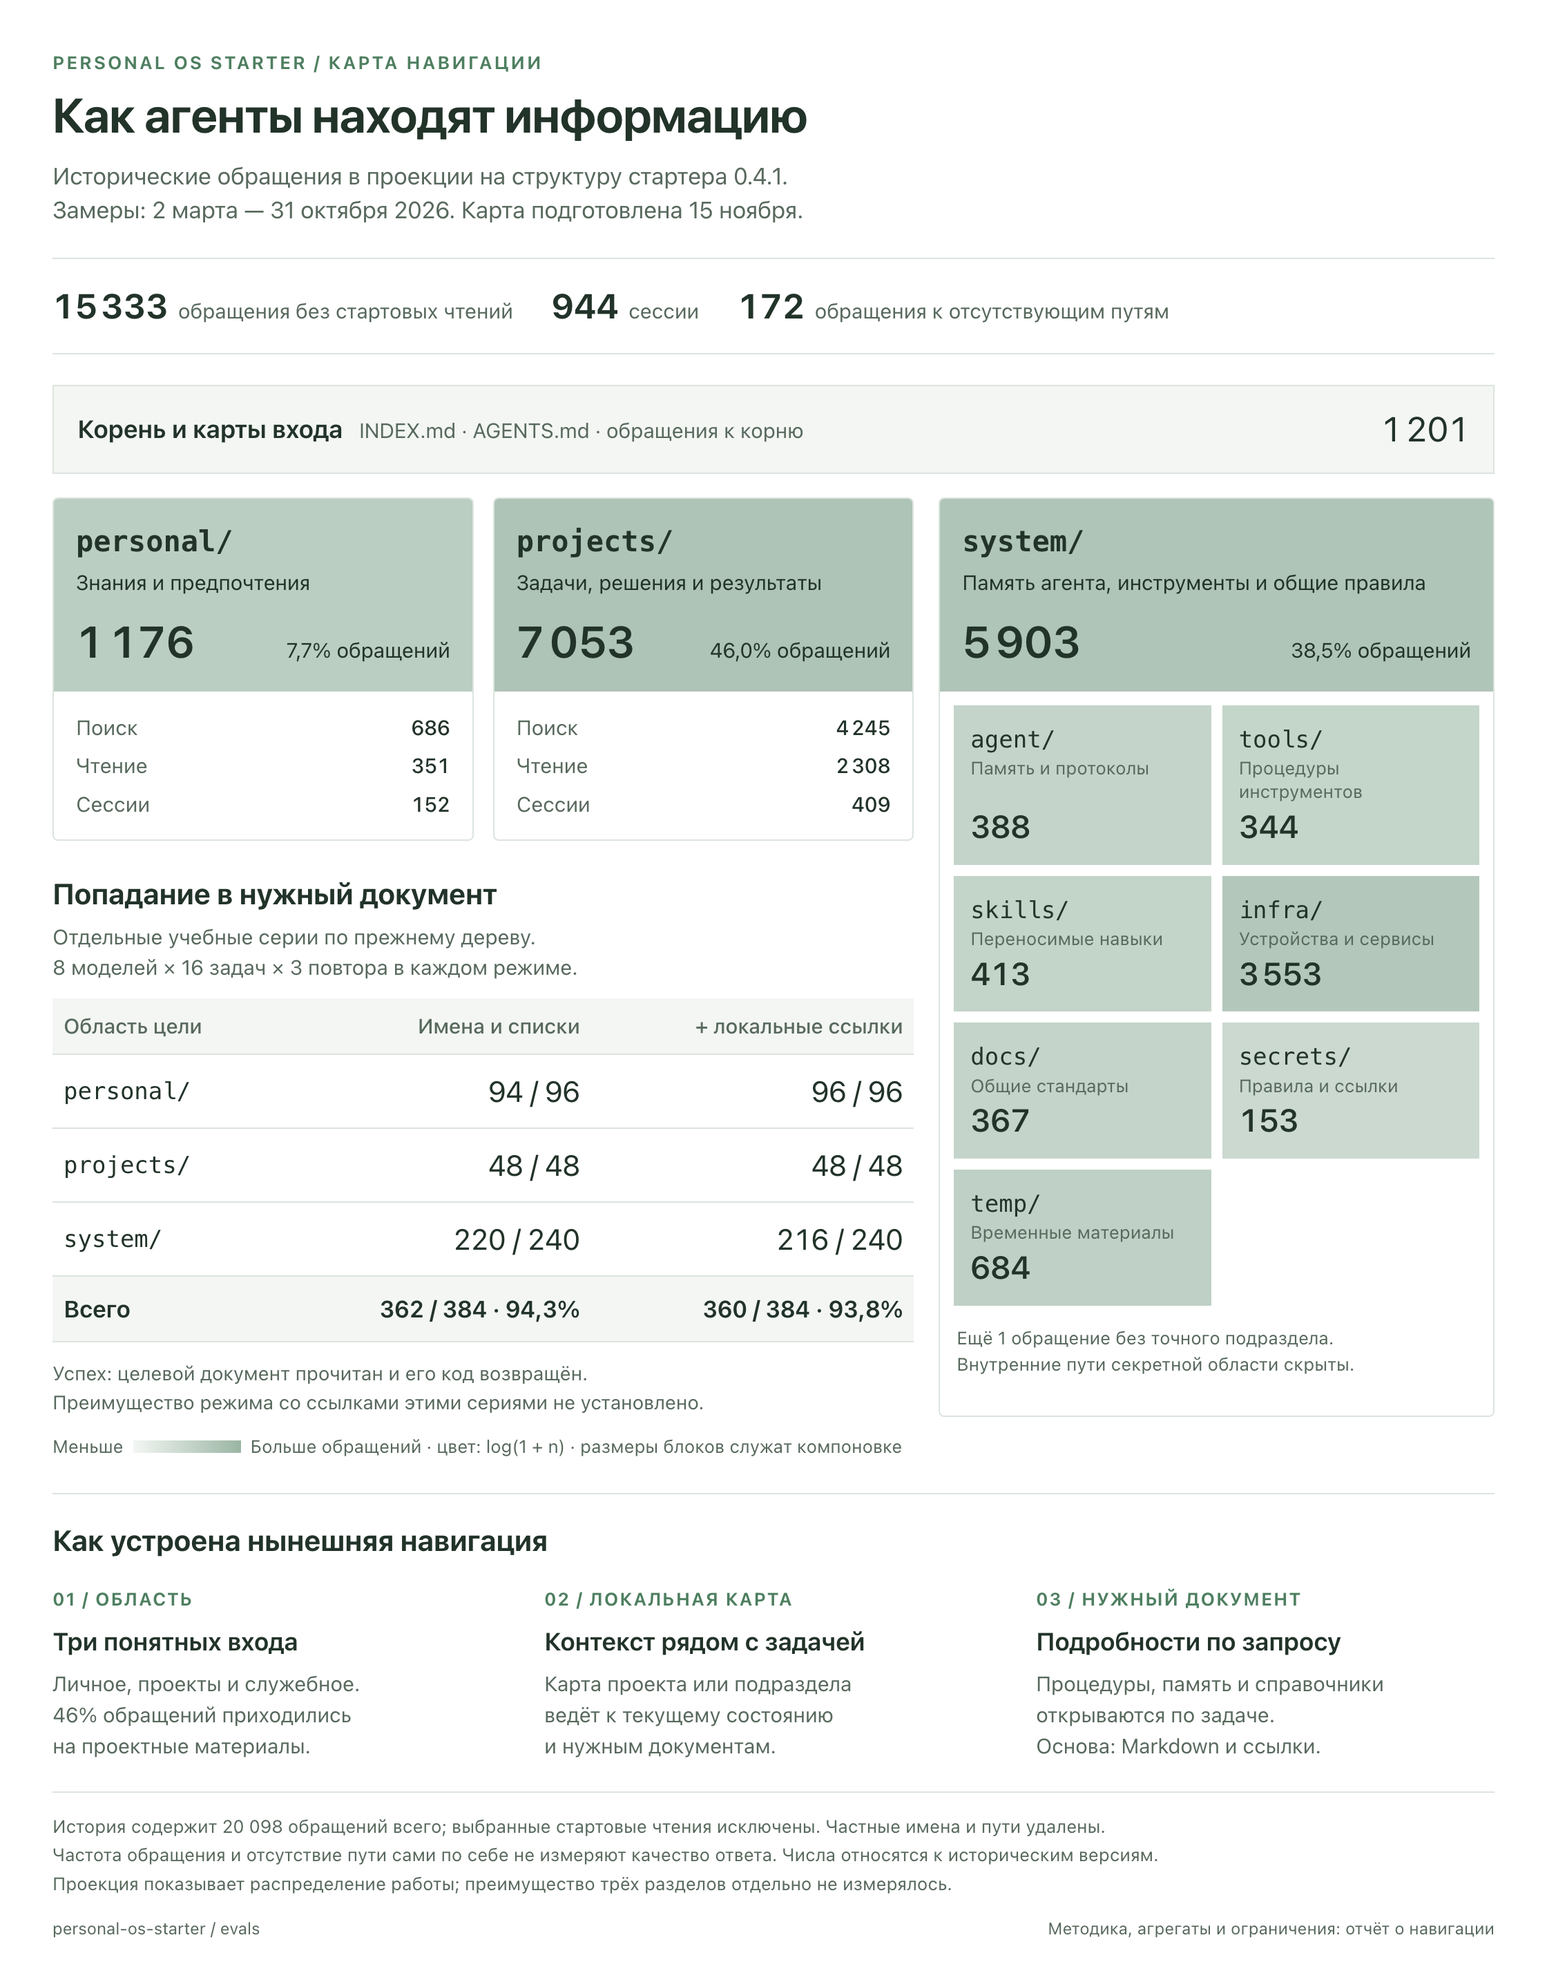
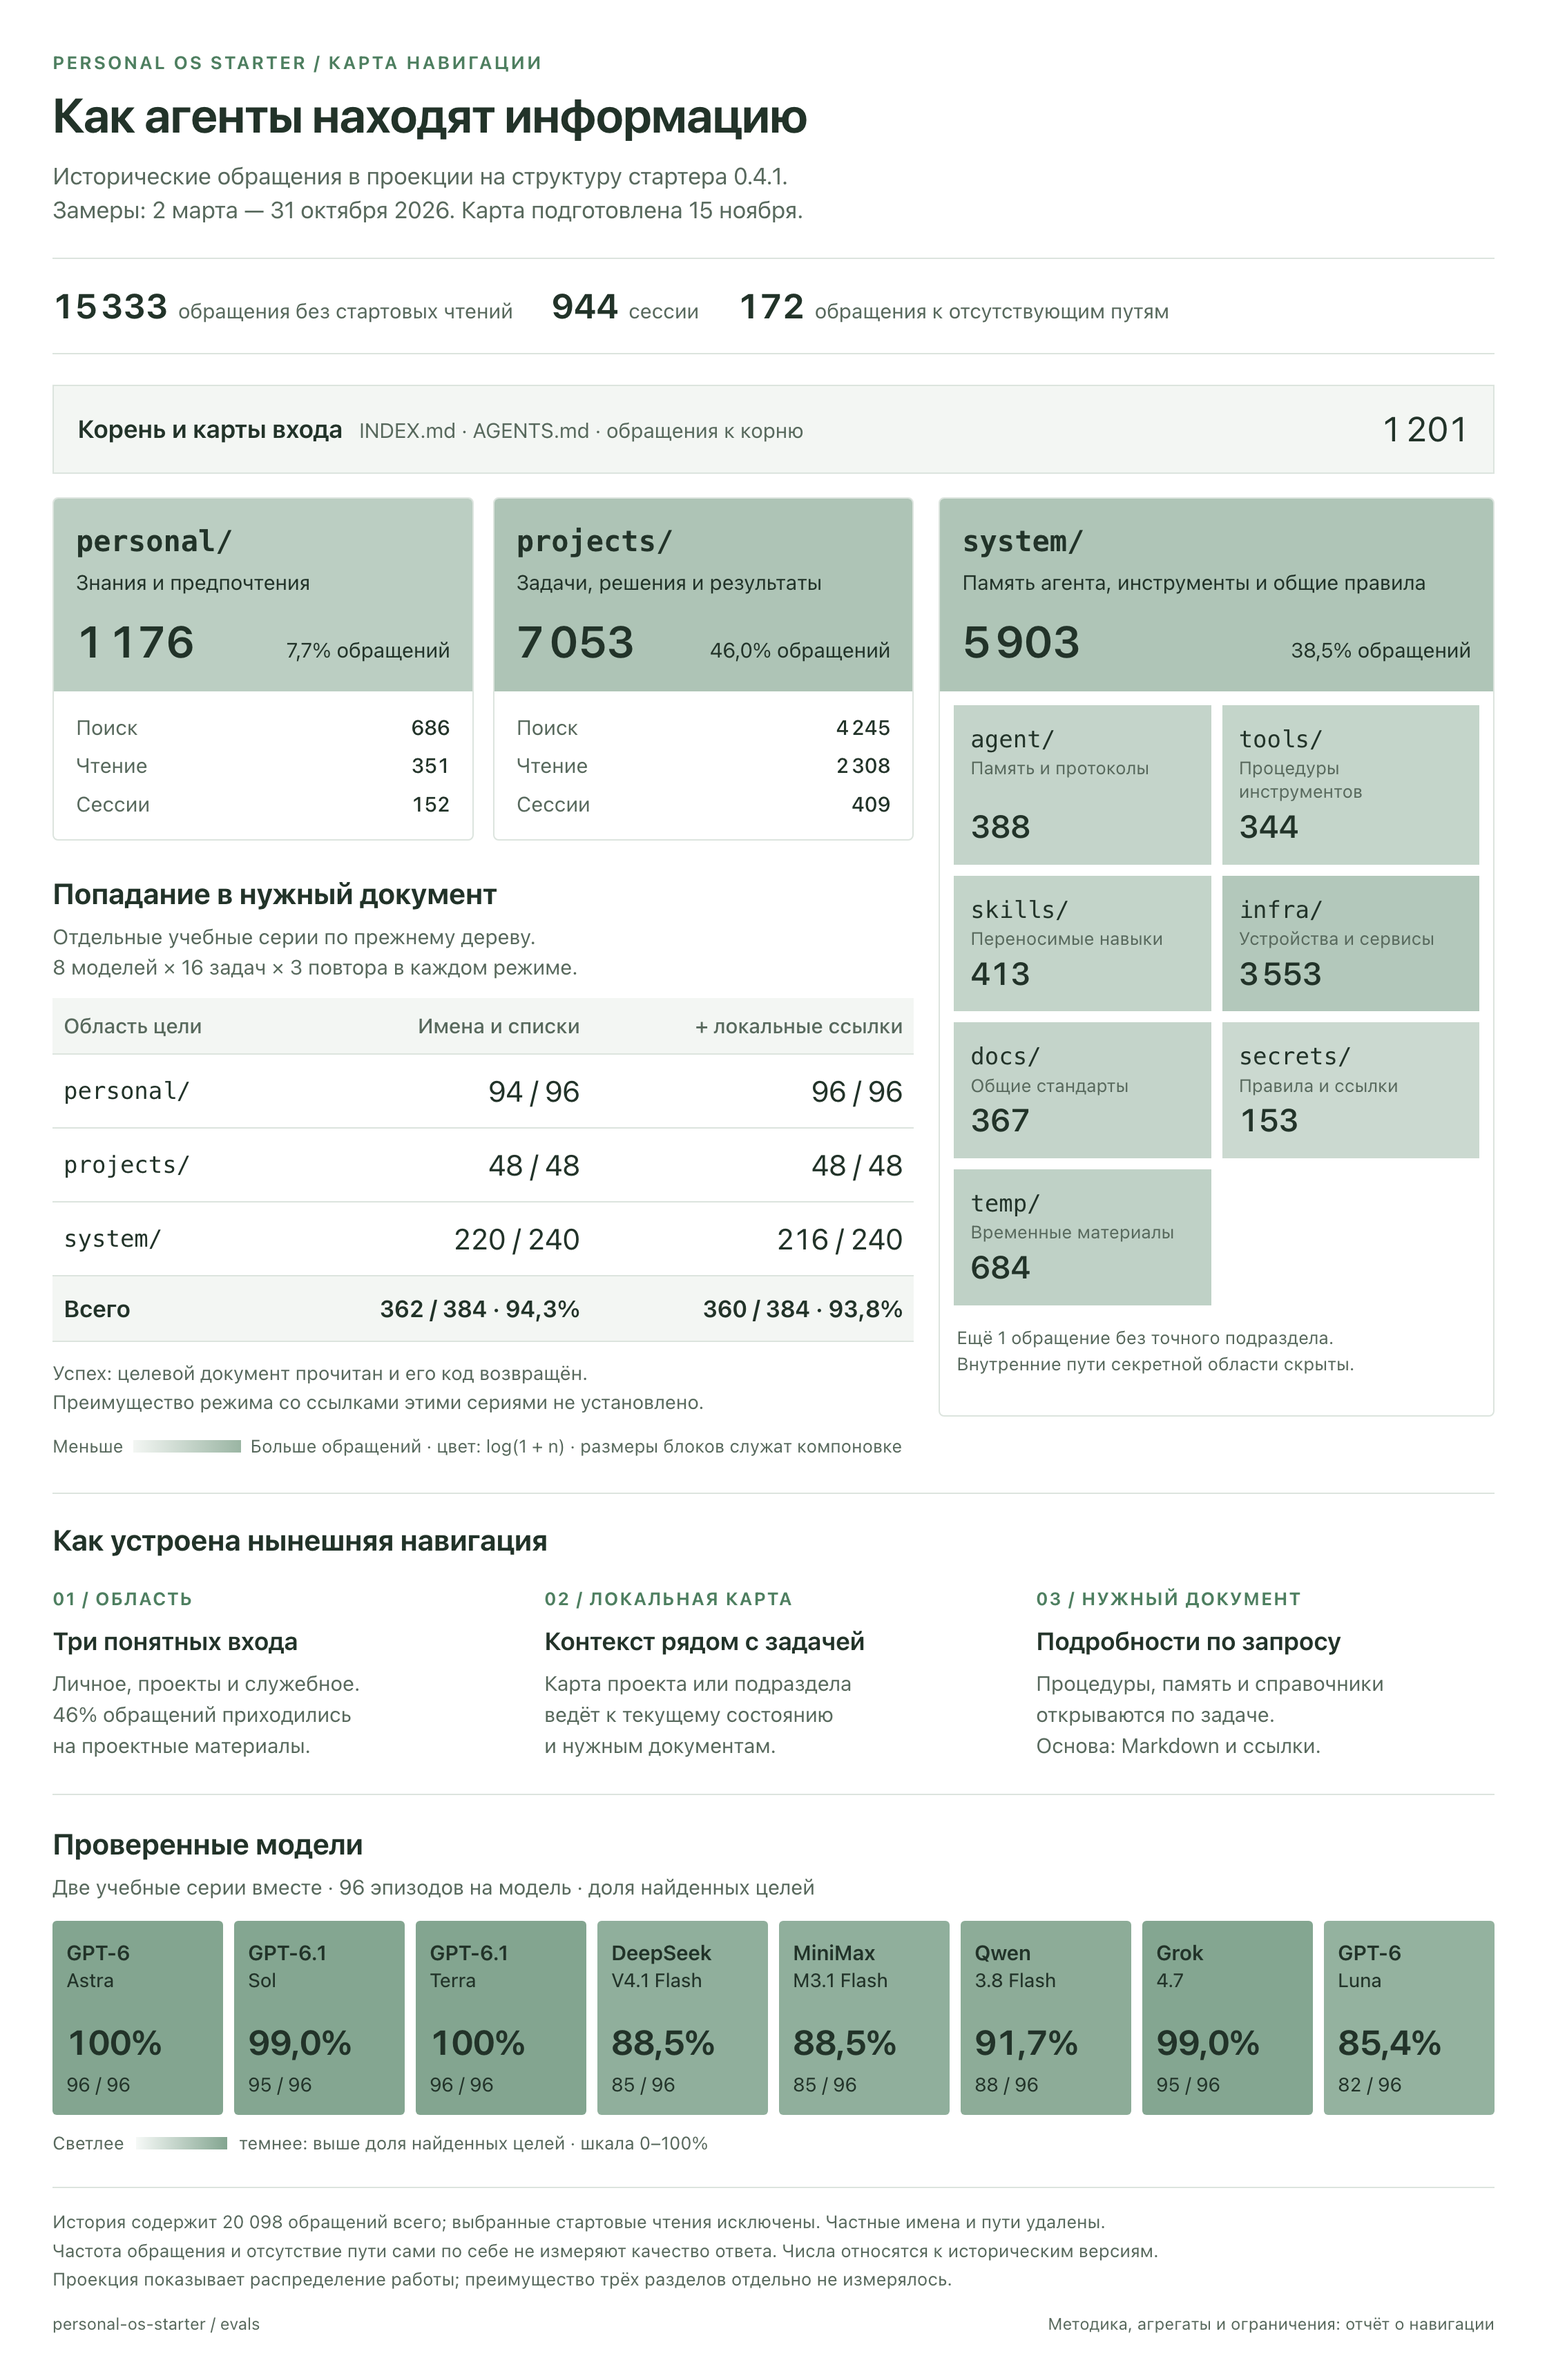
Add model result tiles to navigation map

Changed region(s): [[0.0312, 0.0, 0.9688, 0.7453], [0.0312, 0.7763, 0.9688, 0.9937]]

diff --git a/evals/reports/2026-11-15-navigation.md b/evals/reports/2026-11-15-navigation.md
@@ -6,7 +6,7 @@ created: "2026-11-15"
 
 # Как агенты находят информацию
 
-[![Карта навигации Personal OS: исторические обращения распределены по нынешним personal, projects и system. Отдельная таблица показывает попадание в целевой документ в учебных испытаниях.](assets/navigation-2026-11-15.png)](assets/navigation-2026-11-15.png)
+[![Карта навигации Personal OS: обращения к нынешним personal, projects и system, попадание в целевой документ и восемь плиток с общими результатами моделей.](assets/navigation-2026-11-15.png)](assets/navigation-2026-11-15.png)
 
 [Открыть картинку крупнее](assets/navigation-2026-11-15.png) · [Обезличенные агрегаты](assets/navigation-2026-11-15.json) · [Каталог evals](../README.md)
 
@@ -107,16 +107,21 @@ bootstrap, identity, памяти и предпочтениям; это приб
 | `system/` | 220 / 240 | 216 / 240 |
 | Всего | 362 / 384 (94,3%) | 360 / 384 (93,8%) |
 
-| Историческая модель | Имена и списки | Добавлены локальные ссылки |
-|---|---:|---:|
-| GPT-6 Astra | 48 / 48 | 48 / 48 |
-| GPT-6.1 Sol | 48 / 48 | 47 / 48 |
-| GPT-6.1 Terra | 48 / 48 | 48 / 48 |
-| DeepSeek V4.1 Flash 1017 | 44 / 48 | 41 / 48 |
-| MiniMax M3.1 Flash | 41 / 48 | 44 / 48 |
-| Qwen3.8 Flash | 44 / 48 | 44 / 48 |
-| Grok 4.7 | 48 / 48 | 47 / 48 |
-| GPT-6 Luna | 41 / 48 | 41 / 48 |
+| Историческая модель | Имена и списки | Добавлены локальные ссылки | Всего | Найдена цель |
+|---|---:|---:|---:|---:|
+| GPT-6 Astra | 48 / 48 | 48 / 48 | 96 / 96 | 100% |
+| GPT-6.1 Sol | 48 / 48 | 47 / 48 | 95 / 96 | 99,0% |
+| GPT-6.1 Terra | 48 / 48 | 48 / 48 | 96 / 96 | 100% |
+| DeepSeek V4.1 Flash 1017 | 44 / 48 | 41 / 48 | 85 / 96 | 88,5% |
+| MiniMax M3.1 Flash | 41 / 48 | 44 / 48 | 85 / 96 | 88,5% |
+| Qwen3.8 Flash | 44 / 48 | 44 / 48 | 88 / 96 | 91,7% |
+| Grok 4.7 | 48 / 48 | 47 / 48 | 95 / 96 | 99,0% |
+| GPT-6 Luna | 41 / 48 | 41 / 48 | 82 / 96 | 85,4% |
+
+Плитки на картинке суммируют обе серии: 48 + 48 эпизодов на модель.
+Процент равен числу успешных эпизодов, делённому на 96; округление до десятых.
+Заливка линейно темнеет по шкале 0–100%. Это описательная сводка попадания
+в целевой документ в этих условиях. Порядок моделей сохранён из исследования.
 
 Модели работали по виртуальному протоколу со списком файлов, чтением
 учебных документов и поиском по именам. Корневой список был доступен сразу;

diff --git a/evals/README.md b/evals/README.md
@@ -6,7 +6,7 @@ created: "2026-11-15"
 
 # Проверки поведения
 
-[![Карта навигации Personal OS: обращения к personal, projects и system, результаты учебного поиска и принцип постепенного раскрытия.](reports/assets/navigation-2026-11-15.png)](reports/2026-11-15-navigation.md)
+[![Карта навигации Personal OS: обращения к personal, projects и system, результаты учебного поиска, восемь моделей и принцип постепенного раскрытия.](reports/assets/navigation-2026-11-15.png)](reports/2026-11-15-navigation.md)
 
 [Карта крупнее, замеры и выводы о структуре](reports/2026-11-15-navigation.md).
 Исторические обращения показаны в проекции на нынешние разделы стартера.
